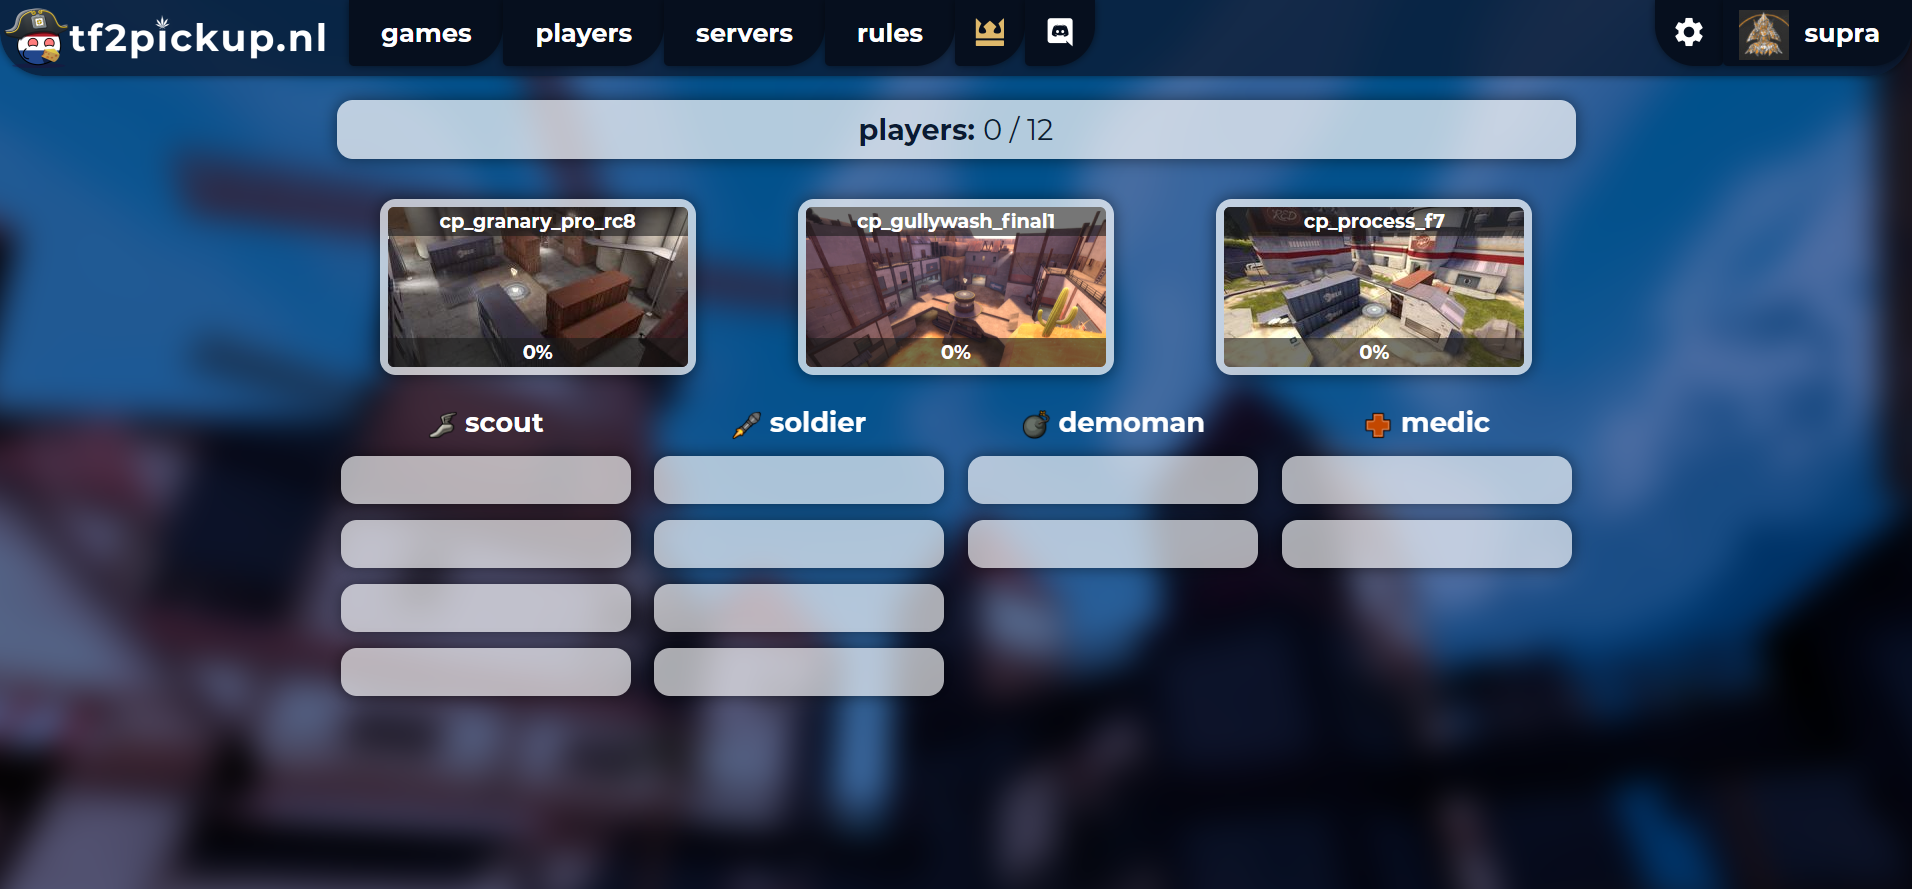
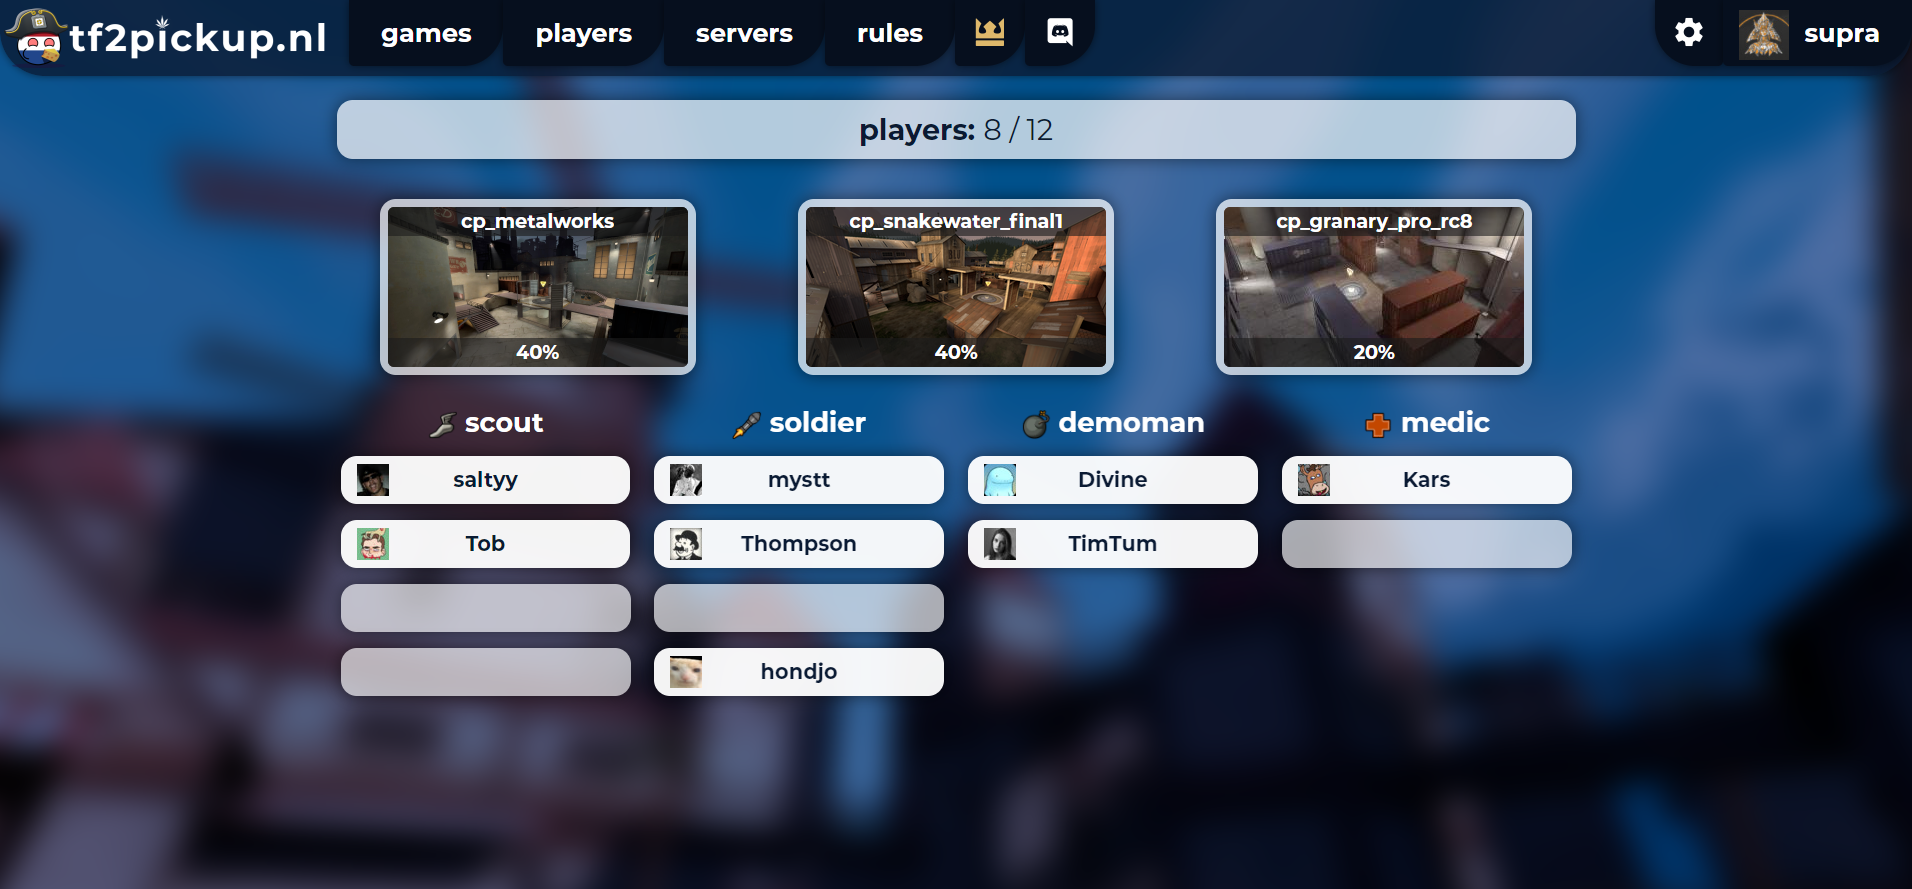
docs: add additional images to site overview and update site showcase links

diff --git a/docs/site-showcase.md b/docs/site-showcase.md
@@ -2,38 +2,38 @@
 title: Site showcase
 ---
 
-## tf2pickup.pl
+## [tf2pickup.pl](https://tf2pickup.pl)
 
 ![tf2pickup.pl](/img/content/tf2pickup.pl.png)
 
-## tf2pickup.es
+## [tf2pickup.es](https://tf2pickup.es)
 
 ![tf2pickup.es](/img/content/tf2pickup.es.png)
 
-## hl.tf2pickup.pl
+## [hl.tf2pickup.pl](https://hl.tf2pickup.pl)
 
 ![hl.tf2pickup.pl](/img/content/hl.tf2pickup.pl.png)
 
-## tf2pickup.fr
+## [tf2pickup.fr](https://tf2pickup.fr)
 
 ![tf2pickup.fr](/img/content/tf2pickup.fr.png)
 
-## tf2pickup.cz
+## [tf2pickup.cz](https://tf2pickup.cz)
 
 ![tf2pickup.cz](/img/content/tf2pickup.cz.png)
 
-## tf2pickup.de
+## [tf2pickup.de](https://tf2pickup.de)
 
 ![tf2pickup.de](/img/content/tf2pickup.de.png)
 
-## yu.tf2pickup.eu
+## [yu.tf2pickup.eu](https://yu.tf2pickup.eu)
 
 ![yu.tf2pickup.eu](/img/content/yu.tf2pickup.eu.png)
 
-## tf2pickup.fi
+## [tf2pickup.fi](https://tf2pickup.fi)
 
 ![tf2pickup.fi](/img/content/tf2pickup.fi.png)
 
-## tf2pickup.nl
+## [tf2pickup.nl](https://tf2pickup.nl)
 
 ![tf2pickup.nl](/img/content/tf2pickup.nl.png)

diff --git a/docs/site-overview.md b/docs/site-overview.md
@@ -8,6 +8,14 @@ title: Site overview
 
 ![pickup-queue](/img/content/pickup-queue.png)
 
+### Pickup game overview as a player
+
+![pickup-game-overview-as-a-player](/img/content/pickup-game-overview-as-a-player.png)
+
+### Pickup game overview as a spectator
+
+![pickup-game-overview-as-a-spectator](/img/content/pickup-game-overview-as-a-spectator.png)
+
 ### Player list
 
 ![player-list](/img/content/player-list.png)
@@ -34,7 +42,7 @@ title: Site overview
 
 ![sub-needed](/img/content/sub-needed.png)
 
-## Admin discord notifications
+### Admin discord notifications
 
 ![discord-admin-notifications-1](/img/content/discord-admin-notifications-1.png)
 
